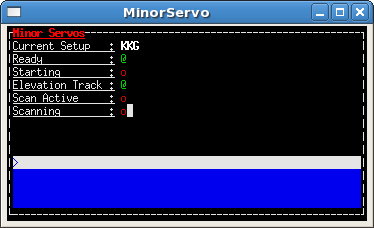
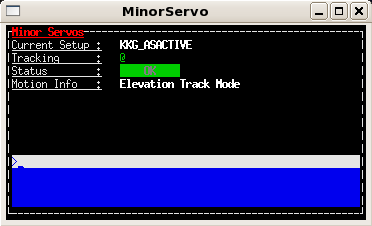
New MinorServo console.

Changed region(s): [[0.0, 0.0, 1.0, 1.0]]

diff --git a/user/srt/source/Appendix_A.rst b/user/srt/source/Appendix_A.rst
@@ -414,25 +414,24 @@ MinorServo
 This monitor shows details on the Minor Servo systems:
 
   * **Current Setup**: current setup code (**CCB**, **KKG**, **KKG_ASACTIVE**,
-    …)
+    ...)
 
-  * **Ready**: when green, the receiver is in its working position
+  * **Tracking**: a red ``o`` means the minor servo system is not tracking 
+    properly, and a green ``@`` light indicates the minor servo actual position
+    as expected. 
 
-  * **Starting** : when green, the minor servo are moving in order to put 
-    the selected receiver in its working position
+  * **Status**: ``OK``, ``WARNING`` or ``FAILURE``. A *warning* needs 
+    investigation but usually does not stop the ongoing activity (it also 
+    appears at startup, before the setup commands), and a *failure* appears 
+    if there is a fault in the system. 
+    In case of failure the tracking field can be green, and that 
+    means the observation can continue (for instance, it is possible to have
+    a PFP fault when the required receiver is on focus).
 
-  * **AS Conf**: when green, the subreflector position is computed by assuming 
-    the primary mirror surface is shaped and active (it is changing 
-    with the antenna elavation)
-
-  * **Elevation Track**: when green, the subreflector is changing its 
-    position with the elevation
-
-  * **Scan active**: when green, a scan is active. That means either the system 
-    is performing a scan or a scan is terminated and so the system is waiting 
-    for a stopScan command or for a new scan 
-
-  * **Scanning**: when green, the system is performing a scan
+  * **Motion Info**: it describes the minor servo movement. It can be:
+    ``Starting``, ``Parking``, ``Elevation Track Mode``,
+    ``No Elevation Track Mode``, and ``Not Ready to Move`` (in that case
+    a setup is required).
 
 To close the monitor, type ``exit`` in its prompt (the grey line). 
 
